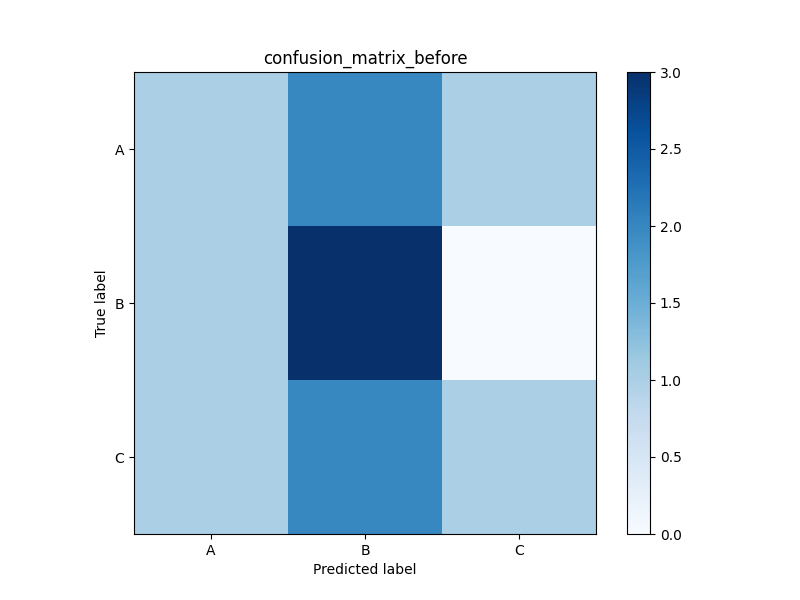
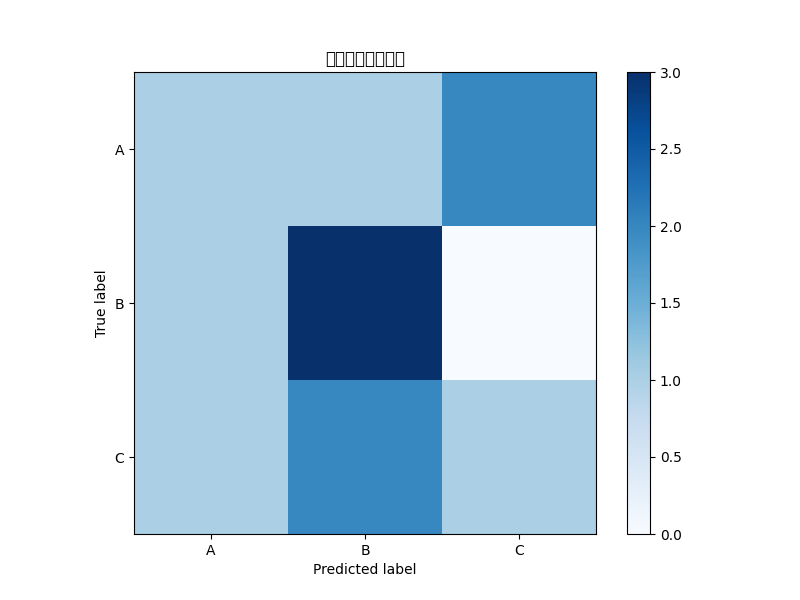
uuidエラー修正

Changed region(s): [[0.3125, 0.09, 0.75, 0.39]]

diff --git a/render/views.py b/render/views.py
@@ -30,10 +30,14 @@ def index(request):
 def asahiyaki(request):
     uuid = request.GET.get("uuid")
     
-    if not uuid:
-        return redirect("/")
     
-    user = get_object_or_404(User, uuid=uuid)
+    user = User.objects.filter(uuid=uuid)
+    if not user.exists():
+        user = User.objects.create(uuid=uuid)
+    else:
+        user = user.first()
+    
+        
     asahiyakis = Asahiyaki.objects.filter(is_example=False)[:3]
     
     if request.method == 'POST':
@@ -201,7 +205,7 @@ def evaluation_results(request, user_uuid):
     qwk_before = cohen_kappa_score(true_y_before, pred_y_before, weights='quadratic') if results_before_learning else 0
     cm_before = confusion_matrix(true_y_before, pred_y_before, labels=["A", "B", "C"]).tolist()
     report_before = classification_report(true_y_before, pred_y_before, output_dict=True)
-    cm_before_image_url = save_confusion_matrix_image(cm_before, ["A", "B", "C"], "学習前の混同行列", f"cm_before_{user.uuid}.png")
+    cm_before_image_url = save_confusion_matrix_image(cm_before, ["A", "B", "C"], "confusion_matrix", f"cm_before_{user.uuid}.png")
 
     # 学習後の評価
     accuracy_after = (sum([r['is_correct'] for r in results_after_learning]) / len(results_after_learning) * 100) if results_after_learning else 0
@@ -209,7 +213,7 @@ def evaluation_results(request, user_uuid):
     qwk_after = cohen_kappa_score(true_y_after, pred_y_after, weights='quadratic') if results_after_learning else 0
     cm_after = confusion_matrix(true_y_after, pred_y_after, labels=["A", "B", "C"]).tolist()
     report_after = classification_report(true_y_after, pred_y_after, output_dict=True)
-    cm_after_image_url = save_confusion_matrix_image(cm_after, ["A", "B", "C"], "学習後の混同行列", f"cm_after_{user.uuid}.png")
+    cm_after_image_url = save_confusion_matrix_image(cm_after, ["A", "B", "C"], "confusion_matrix", f"cm_after_{user.uuid}.png")
 
     context = {
         'user': user,
@@ -238,7 +242,10 @@ def asahiyaki_select_front(request):
     if not uuid:
         return redirect("/")
     
+    
     user = get_object_or_404(User, uuid=uuid)
+    
+    
     asahiyakis_a = Asahiyaki.objects.filter(correct_evaluation='A', is_example=False)
     
     if request.method == 'POST':
